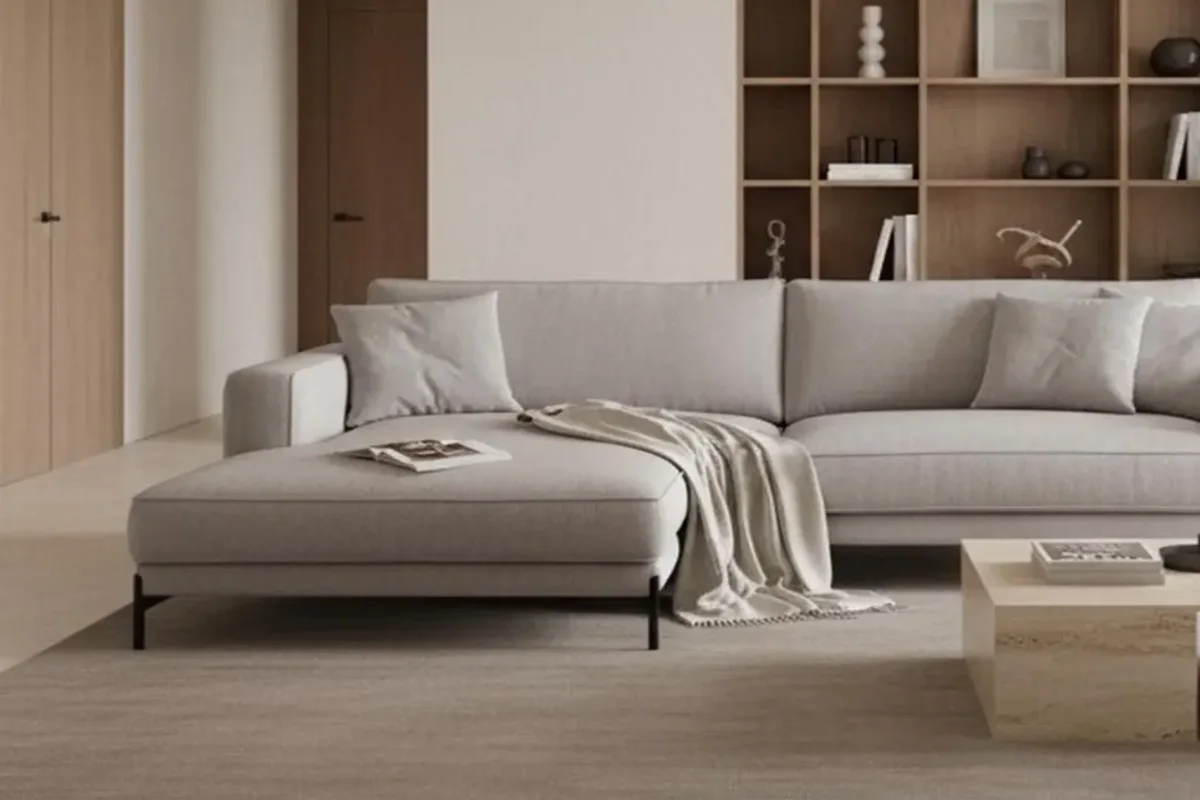
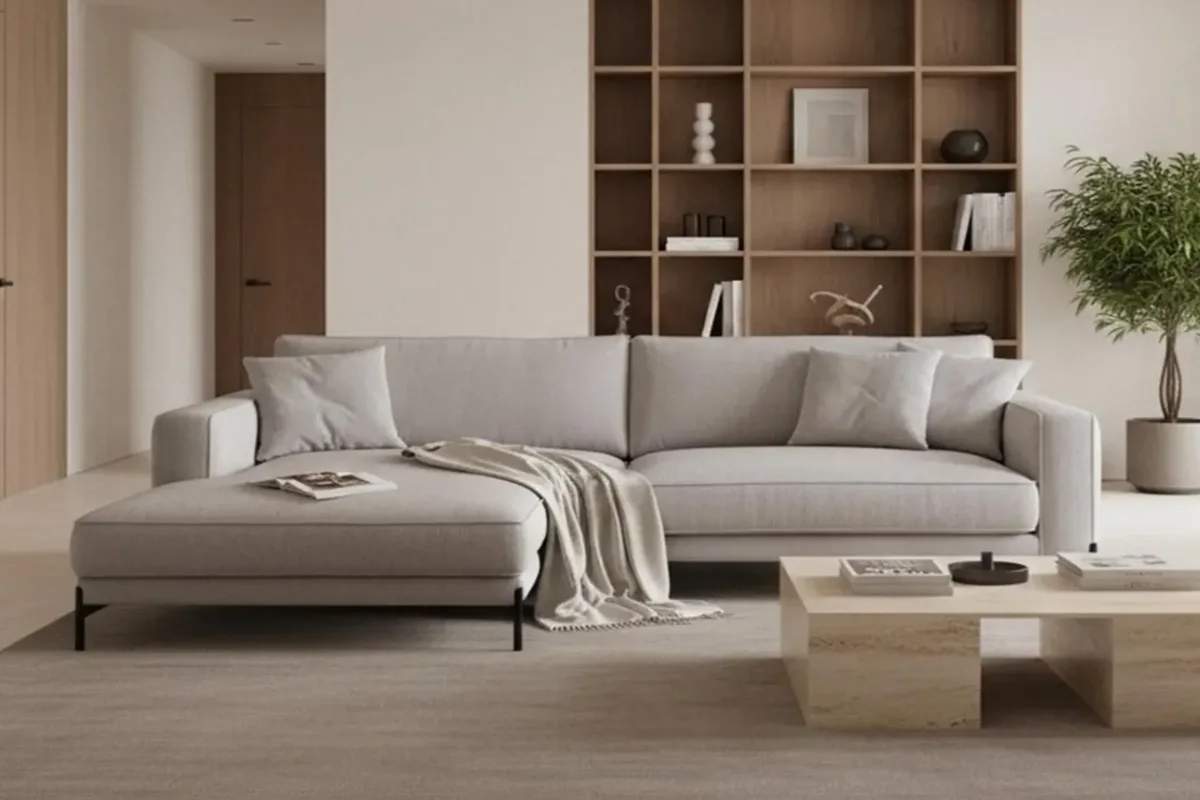
Vorschau aus 0c8227d: Modelluebersicht: Deep Free komplett im Bild (Ausschnitt breiter)

diff --git a/kollektion.html b/kollektion.html
@@ -61,7 +61,7 @@
       <div class="model-grid" id="model-grid">
   <a class="model-card" href="modell-deep-free.html" data-tags="Tonnentaschenfederkern">
     <div class="model-card__media model-card__media--cover">
-      <img src="assets/img/modelle/deep-free-card-600.webp?v=78c8b8f3" srcset="assets/img/modelle/deep-free-card-600.webp?v=78c8b8f3 600w, assets/img/modelle/deep-free-card-1200.webp?v=44d25332 1200w"
+      <img src="assets/img/modelle/deep-free-card-600.webp?v=e9915e81" srcset="assets/img/modelle/deep-free-card-600.webp?v=e9915e81 600w, assets/img/modelle/deep-free-card-1200.webp?v=493f5798 1200w"
            sizes="(min-width: 1000px) 33vw, (min-width: 640px) 50vw, 100vw" alt="" loading="lazy" width="1200" height="800">
     </div>
     <div class="model-card__body">

diff --git a/modell-monza.html b/modell-monza.html
@@ -279,7 +279,7 @@
       <div class="model-grid">
   <a class="model-card" href="modell-deep-free.html">
     <div class="model-card__media model-card__media--cover">
-      <img src="assets/img/modelle/deep-free-card-600.webp?v=78c8b8f3" srcset="assets/img/modelle/deep-free-card-600.webp?v=78c8b8f3 600w, assets/img/modelle/deep-free-card-1200.webp?v=44d25332 1200w"
+      <img src="assets/img/modelle/deep-free-card-600.webp?v=e9915e81" srcset="assets/img/modelle/deep-free-card-600.webp?v=e9915e81 600w, assets/img/modelle/deep-free-card-1200.webp?v=493f5798 1200w"
            sizes="(min-width: 1000px) 33vw, (min-width: 640px) 50vw, 100vw" alt="" loading="lazy" width="1200" height="800">
     </div>
     <div class="model-card__body">

diff --git a/modell-amalfi.html b/modell-amalfi.html
@@ -298,7 +298,7 @@
   </a>
   <a class="model-card" href="modell-deep-free.html">
     <div class="model-card__media model-card__media--cover">
-      <img src="assets/img/modelle/deep-free-card-600.webp?v=78c8b8f3" srcset="assets/img/modelle/deep-free-card-600.webp?v=78c8b8f3 600w, assets/img/modelle/deep-free-card-1200.webp?v=44d25332 1200w"
+      <img src="assets/img/modelle/deep-free-card-600.webp?v=e9915e81" srcset="assets/img/modelle/deep-free-card-600.webp?v=e9915e81 600w, assets/img/modelle/deep-free-card-1200.webp?v=493f5798 1200w"
            sizes="(min-width: 1000px) 33vw, (min-width: 640px) 50vw, 100vw" alt="" loading="lazy" width="1200" height="800">
     </div>
     <div class="model-card__body">

diff --git a/modell-lucca.html b/modell-lucca.html
@@ -289,7 +289,7 @@
   </a>
   <a class="model-card" href="modell-deep-free.html">
     <div class="model-card__media model-card__media--cover">
-      <img src="assets/img/modelle/deep-free-card-600.webp?v=78c8b8f3" srcset="assets/img/modelle/deep-free-card-600.webp?v=78c8b8f3 600w, assets/img/modelle/deep-free-card-1200.webp?v=44d25332 1200w"
+      <img src="assets/img/modelle/deep-free-card-600.webp?v=e9915e81" srcset="assets/img/modelle/deep-free-card-600.webp?v=e9915e81 600w, assets/img/modelle/deep-free-card-1200.webp?v=493f5798 1200w"
            sizes="(min-width: 1000px) 33vw, (min-width: 640px) 50vw, 100vw" alt="" loading="lazy" width="1200" height="800">
     </div>
     <div class="model-card__body">
